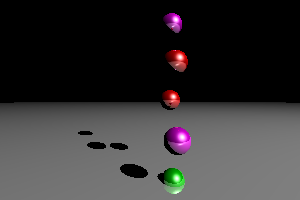
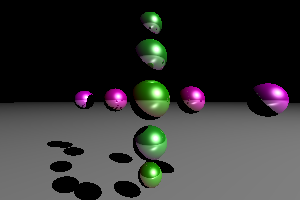
Finished RayTracer

diff --git a/RayTracer-A2/rayTracer.py b/RayTracer-A2/rayTracer.py
@@ -40,11 +40,18 @@ screen = (-1, 1 / ratio, 1, -1 / ratio) # left, top, right, bottom
 light = { 'position': np.array([5, 5, 5]), 'ambient': np.array([1, 1, 1]), 'diffuse': np.array([1, 1, 1]), 'specular': np.array([1, 1, 1]) }
 
 objects = [
-    { 'center': np.array([0.2, 0, -.5]), 'radius': 0.1, 'ambient': np.array([0.1, 0, 0]), 'diffuse': np.array([0.7, 0, 0]), 'specular': np.array([1, 1, 1]), 'shininess': 100, 'reflection': 0.5 },
-    { 'center': np.array([0.2, .70, -.4]), 'radius': 0.1, 'ambient': np.array([0.1, 0, 0.1]), 'diffuse': np.array([0.7, 0, 0.7]), 'specular': np.array([1, 1, 1]), 'shininess': 100, 'reflection': 0.5 },
-    { 'center': np.array([0.2, -.70, -.3]), 'radius': 0.1, 'ambient': np.array([0, 0.1, 0]), 'diffuse': np.array([0, 0.6, 0]), 'specular': np.array([1, 1, 1]), 'shininess': 100, 'reflection': 0.5 },
-    { 'center': np.array([0.2, .30, -.2]), 'radius': 0.1, 'ambient': np.array([0.1, 0, 0]), 'diffuse': np.array([0.7, 0, 0]), 'specular': np.array([1, 1, 1]), 'shininess': 100, 'reflection': 0.5 },
-    { 'center': np.array([0.2, -.30, -.1]), 'radius': 0.1, 'ambient': np.array([0.1, 0, 0.1]), 'diffuse': np.array([0.7, 0, 0.7]), 'specular': np.array([1, 1, 1]), 'shininess': 100, 'reflection': 0.5 },
+    # Y-Axis Spheres
+    { 'center': np.array([0, 0, .4]), 'radius': 0.08, 'ambient': np.array([0.1, 0, 0]), 'diffuse': np.array([0, 0.6, 0]), 'specular': np.array([1, 1, 1]), 'shininess': 100, 'reflection': 0.5 },
+    { 'center': np.array([0, .20, .3]), 'radius': 0.08, 'ambient': np.array([0.1, 0, 0.1]), 'diffuse': np.array([0, 0.6, 0]), 'specular': np.array([1, 1, 1]), 'shininess': 100, 'reflection': 0.5 },
+    { 'center': np.array([0, -.50,0]), 'radius': 0.08, 'ambient': np.array([0.1, 0, 0]), 'diffuse': np.array([0, 0.6, 0]), 'specular': np.array([1, 1, 1]), 'shininess': 100, 'reflection': 0.5 },
+    { 'center': np.array([0, .50, 0]), 'radius': 0.08, 'ambient': np.array([0.1, 0, 0.1]), 'diffuse': np.array([0, 0.6, 0]), 'specular': np.array([1, 1, 1]), 'shininess': 100, 'reflection': 0.5 },
+    { 'center': np.array([0, -.2,.3]), 'radius': 0.08, 'ambient': np.array([0.1, 0, 0.1]), 'diffuse': np.array([0, 0.6, 0]), 'specular': np.array([1, 1, 1]), 'shininess': 100, 'reflection': 0.5 },
+    # X-Axis Spheres
+    { 'center': np.array([0.3, 0, -.1]), 'radius': 0.1, 'ambient': np.array([0.1, 0, 0]), 'diffuse': np.array([0.7, 0, 0.7]), 'specular': np.array([1, 1, 1]), 'shininess': 100, 'reflection': 0.5 },
+    { 'center': np.array([-0.3, 0, -.3]), 'radius': 0.1, 'ambient': np.array([0.1, 0, 0]), 'diffuse': np.array([0.7, 0, 0.7]), 'specular': np.array([1, 1, 1]), 'shininess': 100, 'reflection': 0.5 },
+    { 'center': np.array([0.7, 0, .1]), 'radius': 0.1, 'ambient': np.array([0.1, 0, 0.1]), 'diffuse': np.array([0.7, 0, 0.7]), 'specular': np.array([1, 1, 1]), 'shininess': 100, 'reflection': 0.5 },
+    { 'center': np.array([-0.7, 0, -.6]), 'radius': 0.1, 'ambient': np.array([0.1, 0, 0.1]), 'diffuse': np.array([0.7, 0, 0.7]), 'specular': np.array([1, 1, 1]), 'shininess': 100, 'reflection': 0.5 },
+
     { 'center': np.array([0, -9000, 0]), 'radius': 9000 - 0.7, 'ambient': np.array([0.1, 0.1, 0.1]), 'diffuse': np.array([0.6, 0.6, 0.6]), 'specular': np.array([1, 1, 1]), 'shininess': 100, 'reflection': 0.5 }
 ]
 
